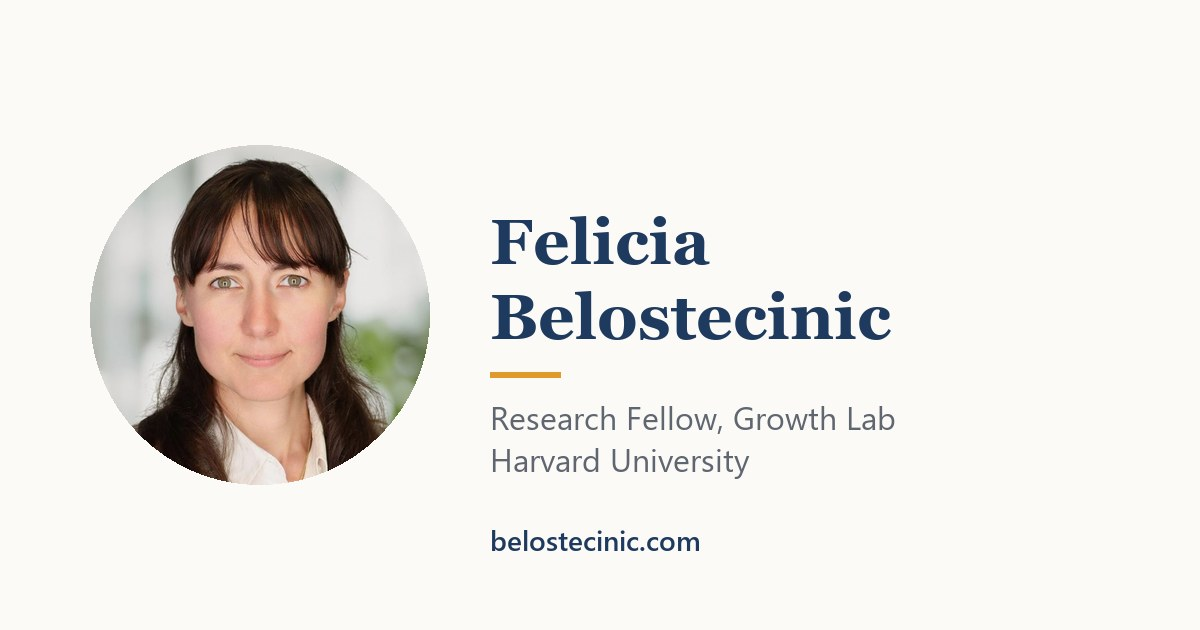
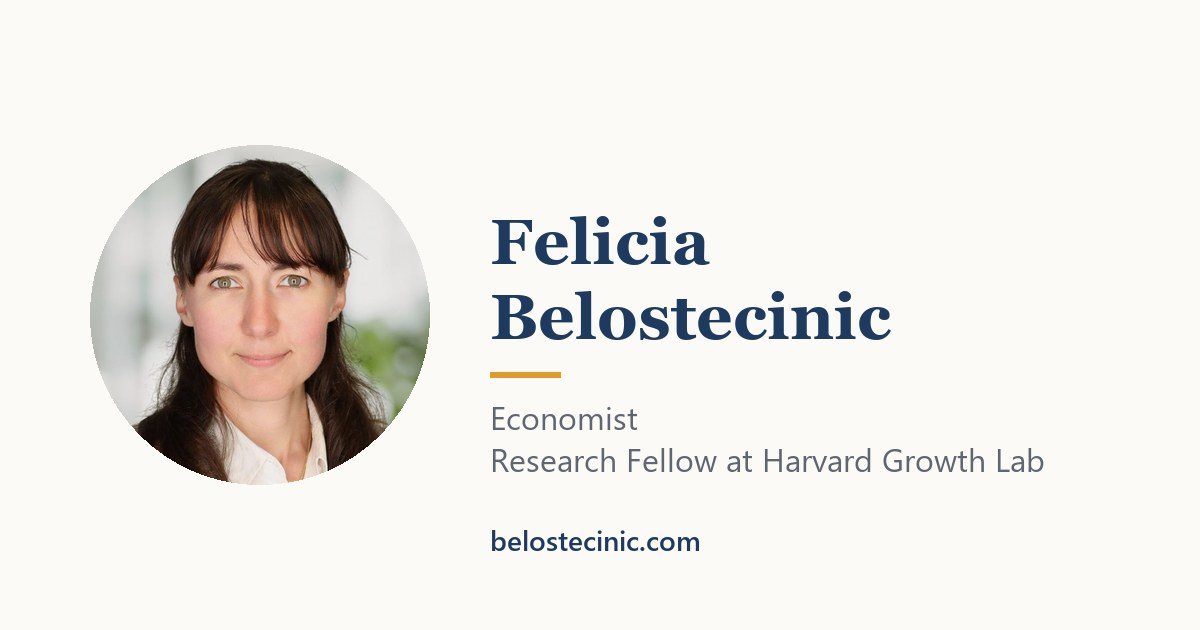
Subtitle: Economist | Research Fellow at Harvard Growth Lab

Changed region(s): [[0.4008, 0.6333, 0.8633, 0.754]]

diff --git a/index.html b/index.html
@@ -13,7 +13,7 @@
   <meta property="og:image" content="https://belostecinic.com/images/social-card.jpg">
   <meta property="og:image:width" content="1200">
   <meta property="og:image:height" content="630">
-  <meta property="og:image:alt" content="Felicia Belostecinic, Research Fellow, Growth Lab, Harvard University">
+  <meta property="og:image:alt" content="Felicia Belostecinic, Economist | Research Fellow at Harvard Growth Lab">
   <meta name="twitter:card" content="summary_large_image">
   <meta name="twitter:title" content="Felicia Belostecinic">
   <meta name="twitter:description" content="Research Fellow at the Growth Lab, Harvard University.">
@@ -67,7 +67,7 @@
     <div class="photo" id="photo" aria-hidden="true"><span>FB</span></div>
     <div>
       <h1 id="name">Felicia Belostecinic</h1>
-      <p class="subtitle" id="title">Research Fellow, Growth Lab, Harvard University</p>
+      <p class="subtitle" id="title">Economist | Research Fellow at Harvard Growth Lab</p>
       <ul class="profiles" id="profiles"></ul>
     </div>
   </header>

diff --git a/data.js b/data.js
@@ -17,7 +17,7 @@
 
 const SITE = {
   name: "Felicia Belostecinic",
-  title: "Research Fellow, Growth Lab, Harvard University",
+  title: "Economist | Research Fellow at Harvard Growth Lab",
   // Email is stored in two pieces so spam bots reading the page code don't see it.
   emailUser: "felicia",
   emailDomain: "belostecinic.com",
